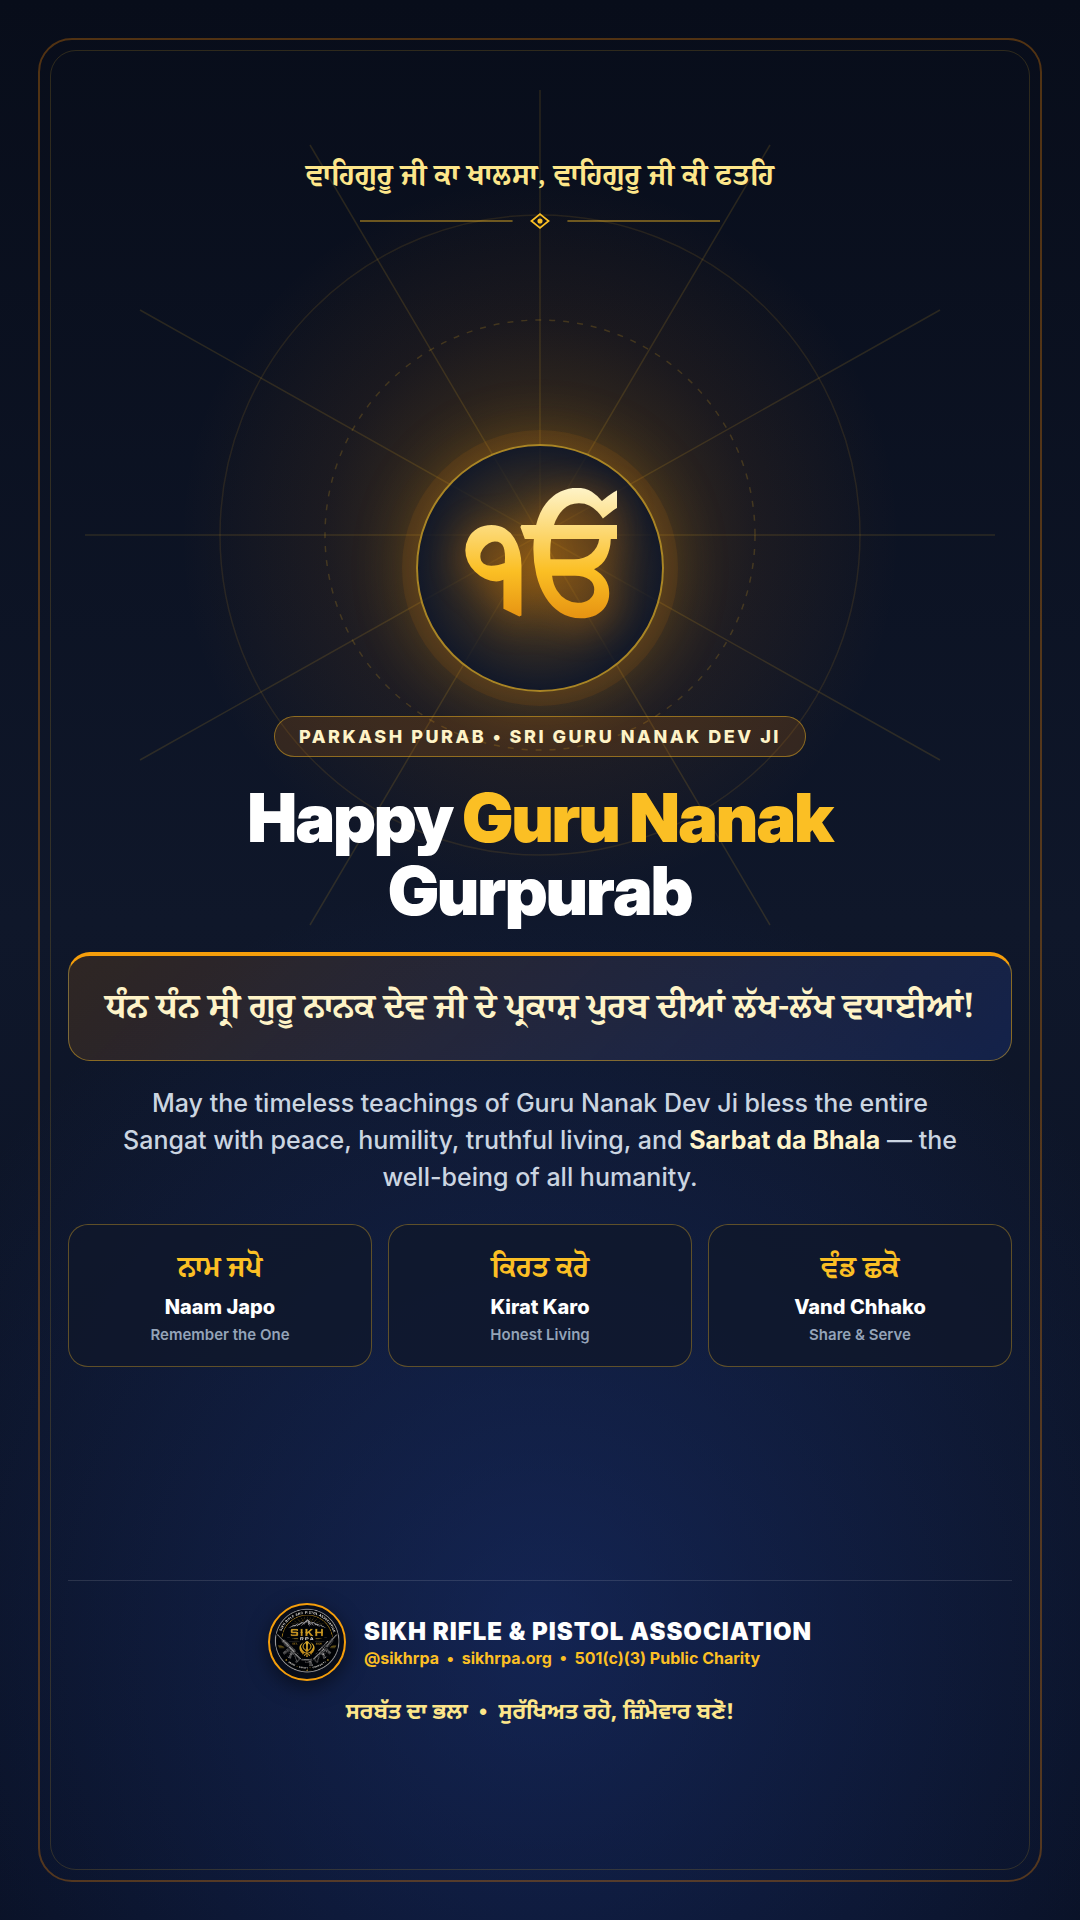
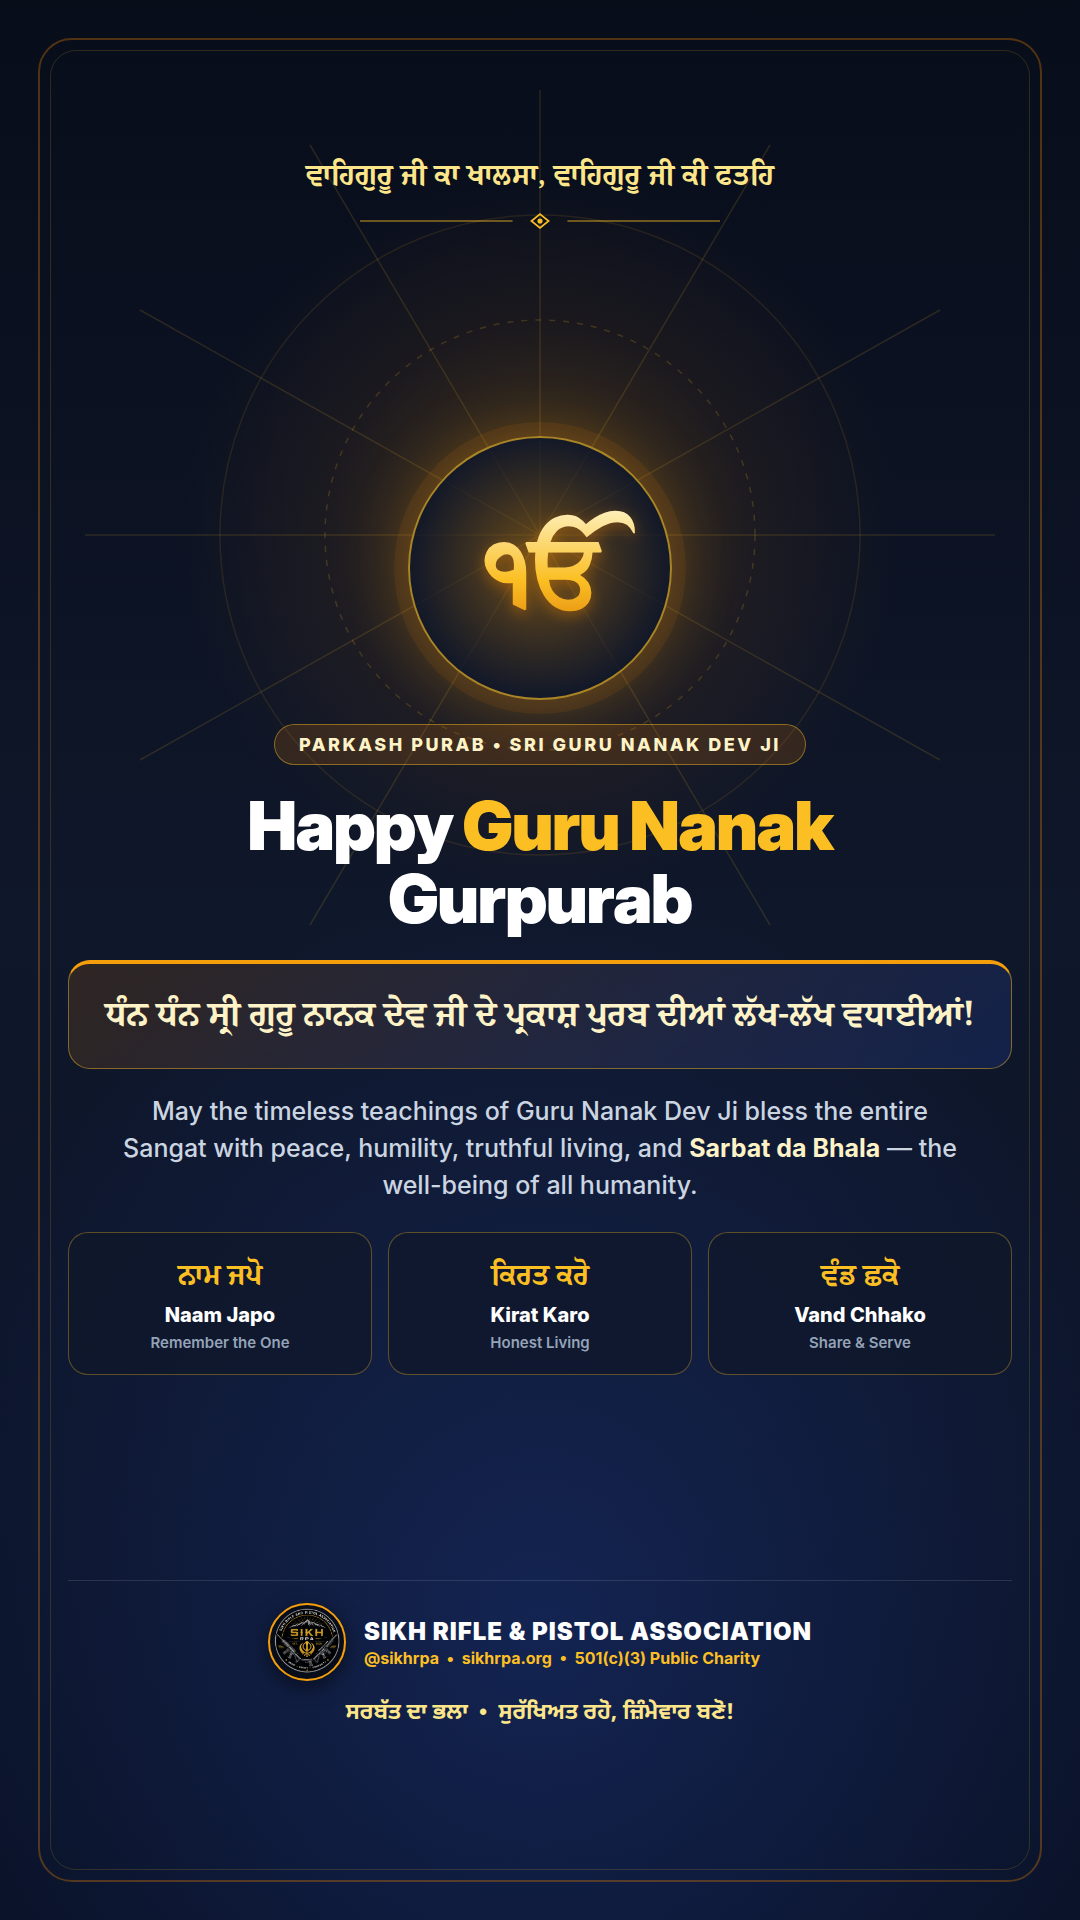
Fix Ik Onkar top arch clipping on Guru Nanak Gurpurab Story graphic

diff --git a/scripts/generate_gurpurab_story.py b/scripts/generate_gurpurab_story.py
@@ -106,8 +106,8 @@ def build_gurpurab_html() -> str:
   }}
 
   .ikonkar-halo {{
-    width: 248px;
-    height: 248px;
+    width: 264px;
+    height: 264px;
     border-radius: 50%;
     display: flex;
     align-items: center;
@@ -117,18 +117,7 @@ def build_gurpurab_html() -> str:
     box-shadow:
       0 0 0 14px rgba(217, 119, 6, 0.10),
       0 0 65px rgba(245, 158, 11, 0.30);
-  }}
-
-  .ikonkar-glyph {{
-    font-family: 'Noto Serif Gurmukhi', 'Noto Sans Gurmukhi', serif;
-    font-size: 138px;
-    font-weight: 700;
-    line-height: 1.1;
-    background: linear-gradient(180deg, #fef3c7 0%, #fbbf24 52%, #d97706 100%);
-    -webkit-background-clip: text;
-    -webkit-text-fill-color: transparent;
-    filter: drop-shadow(0 6px 18px rgba(217, 119, 6, 0.45));
-    padding-top: 8px;
+    overflow: visible;
   }}
 
   .eyebrow {{
@@ -302,7 +291,20 @@ def build_gurpurab_html() -> str:
 
     <div class="center-piece">
       <div class="ikonkar-halo">
-        <div class="ikonkar-glyph">ੴ</div>
+        <svg viewBox="0 0 280 280" width="256" height="256" overflow="visible" xmlns="http://www.w3.org/2000/svg">
+          <defs>
+            <linearGradient id="ikGold" x1="0" y1="0" x2="0" y2="1">
+              <stop offset="0%" stop-color="#fef3c7"/>
+              <stop offset="52%" stop-color="#fbbf24"/>
+              <stop offset="100%" stop-color="#d97706"/>
+            </linearGradient>
+            <filter id="ikGlow" x="-20%" y="-20%" width="140%" height="140%">
+              <feDropShadow dx="0" dy="5" stdDeviation="7" flood-color="#d97706" flood-opacity="0.45"/>
+            </filter>
+          </defs>
+          <text x="140" y="182" text-anchor="middle" fill="url(#ikGold)" filter="url(#ikGlow)"
+                font-family="'Noto Serif Gurmukhi', 'Noto Sans Gurmukhi', serif" font-size="112" font-weight="700">ੴ</text>
+        </svg>
       </div>
 
       <div class="eyebrow">Parkash Purab • Sri Guru Nanak Dev Ji</div>
